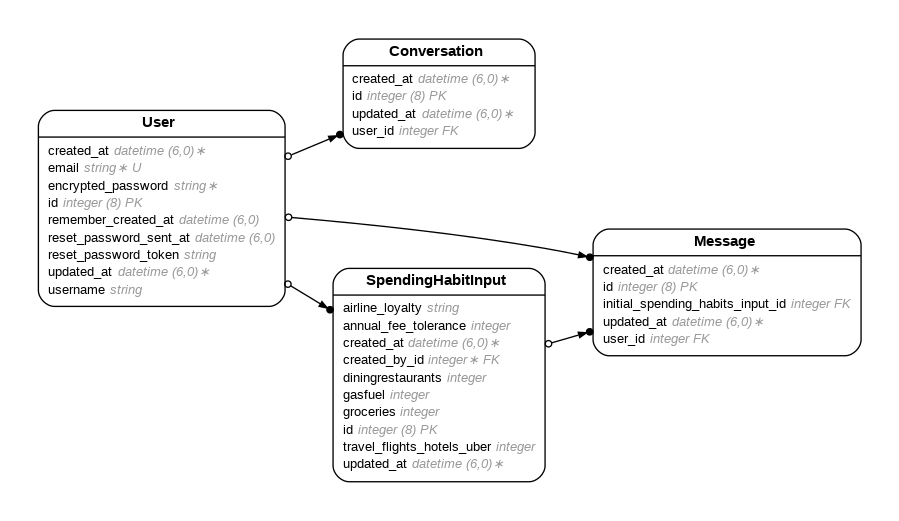
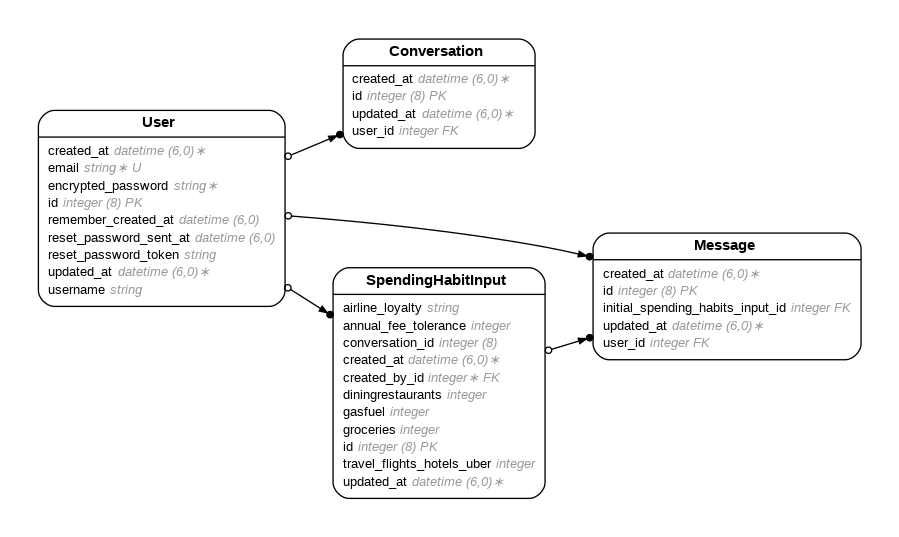
getting rid of unnecessary code, moving spending habit around

diff --git a/app/controllers/spending_habit_inputs_controller.rb b/app/controllers/spending_habit_inputs_controller.rb
@@ -19,7 +19,8 @@ class SpendingHabitInputsController < ApplicationController
 
   def create
     the_spending_habit_input = SpendingHabitInput.new
-    the_spending_habit_input.created_by_id = params.fetch("query_created_by_id")
+    the_spending_habit_input.created_by_id = 1
+    the_spending_habit_input.conversation_id = 1
     the_spending_habit_input.groceries = params.fetch("query_groceries")
     the_spending_habit_input.gasfuel = params.fetch("query_gasfuel")
     the_spending_habit_input.diningrestaurants = params.fetch("query_diningrestaurants")
@@ -39,7 +40,6 @@ class SpendingHabitInputsController < ApplicationController
     the_id = params.fetch("path_id")
     the_spending_habit_input = SpendingHabitInput.where({ :id => the_id }).at(0)
 
-    the_spending_habit_input.created_by_id = params.fetch("query_created_by_id")
     the_spending_habit_input.groceries = params.fetch("query_groceries")
     the_spending_habit_input.gasfuel = params.fetch("query_gasfuel")
     the_spending_habit_input.diningrestaurants = params.fetch("query_diningrestaurants")

diff --git a/app/models/spending_habit_input.rb b/app/models/spending_habit_input.rb
@@ -11,12 +11,17 @@
 #  travel_flights_hotels_uber :integer
 #  created_at                 :datetime         not null
 #  updated_at                 :datetime         not null
+#  conversation_id            :bigint
 #  created_by_id              :integer
+#
+# Indexes
+#
+#  index_spending_habit_inputs_on_conversation_id  (conversation_id)
 #
 class SpendingHabitInput < ApplicationRecord
 
   validates :created_by_id, presence: true
   belongs_to :created_by, required: true, class_name: "User", foreign_key: "created_by_id"
   has_many  :messages, class_name: "Message", foreign_key: "initial_spending_habits_input_id", dependent: :destroy
-
+  belongs_to :conversation, required:   true, class_name: "Conversation",foreign_key:"conversation_id"
 end

diff --git a/db/schema.rb b/db/schema.rb
@@ -10,7 +10,7 @@
 #
 # It's strongly recommended that you check this file into your version control system.
 
-ActiveRecord::Schema[7.1].define(version: 2025_05_26_205149) do
+ActiveRecord::Schema[7.1].define(version: 2025_05_26_214003) do
   # These are extensions that must be enabled in order to support this database
   enable_extension "plpgsql"
 
@@ -37,6 +37,8 @@ ActiveRecord::Schema[7.1].define(version: 2025_05_26_205149) do
     t.integer "annual_fee_tolerance"
     t.datetime "created_at", null: false
     t.datetime "updated_at", null: false
+    t.bigint "conversation_id"
+    t.index ["conversation_id"], name: "index_spending_habit_inputs_on_conversation_id"
   end
 
   create_table "users", force: :cascade do |t|

diff --git a/app/models/conversation.rb b/app/models/conversation.rb
@@ -9,5 +9,8 @@
 #
 class Conversation < ApplicationRecord
   belongs_to :user, required: true, class_name: "User", foreign_key: "user_id"
-  
+  has_one :spending_habit_input,
+          class_name:  "SpendingHabitInput",
+          foreign_key: "conversation_id",
+          dependent:   :destroy
 end

diff --git a/db/migrate/20250526214003_add_conversation_id_to_spending_habit_inputs.rb b/db/migrate/20250526214003_add_conversation_id_to_spending_habit_inputs.rb
@@ -1,0 +1,6 @@
+class AddConversationIdToSpendingHabitInputs < ActiveRecord::Migration[7.1]
+  def change
+    add_column :spending_habit_inputs, :conversation_id, :bigint
+    add_index :spending_habit_inputs, :conversation_id
+  end
+end
